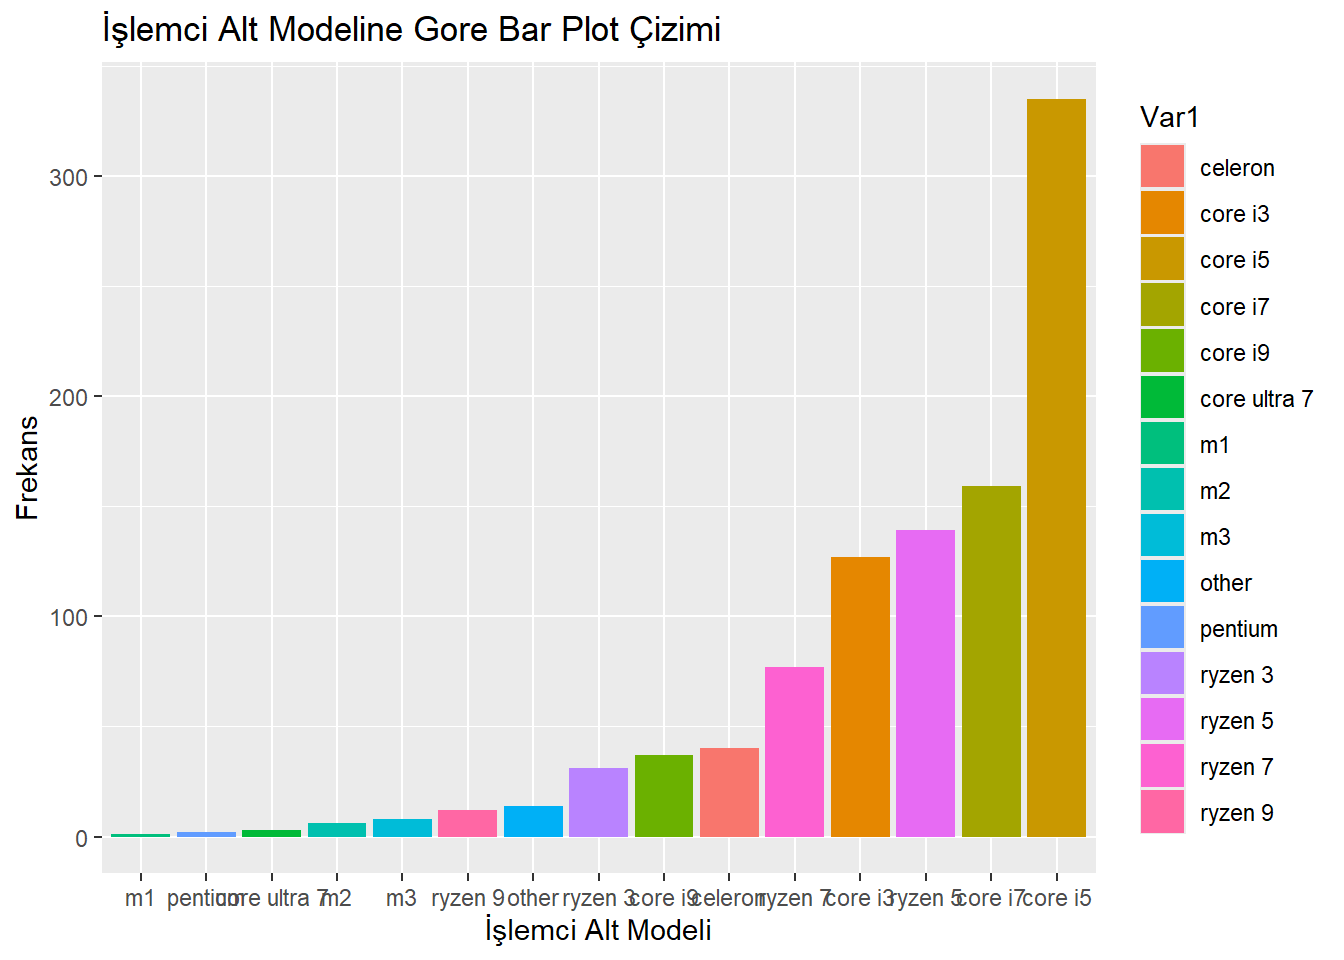
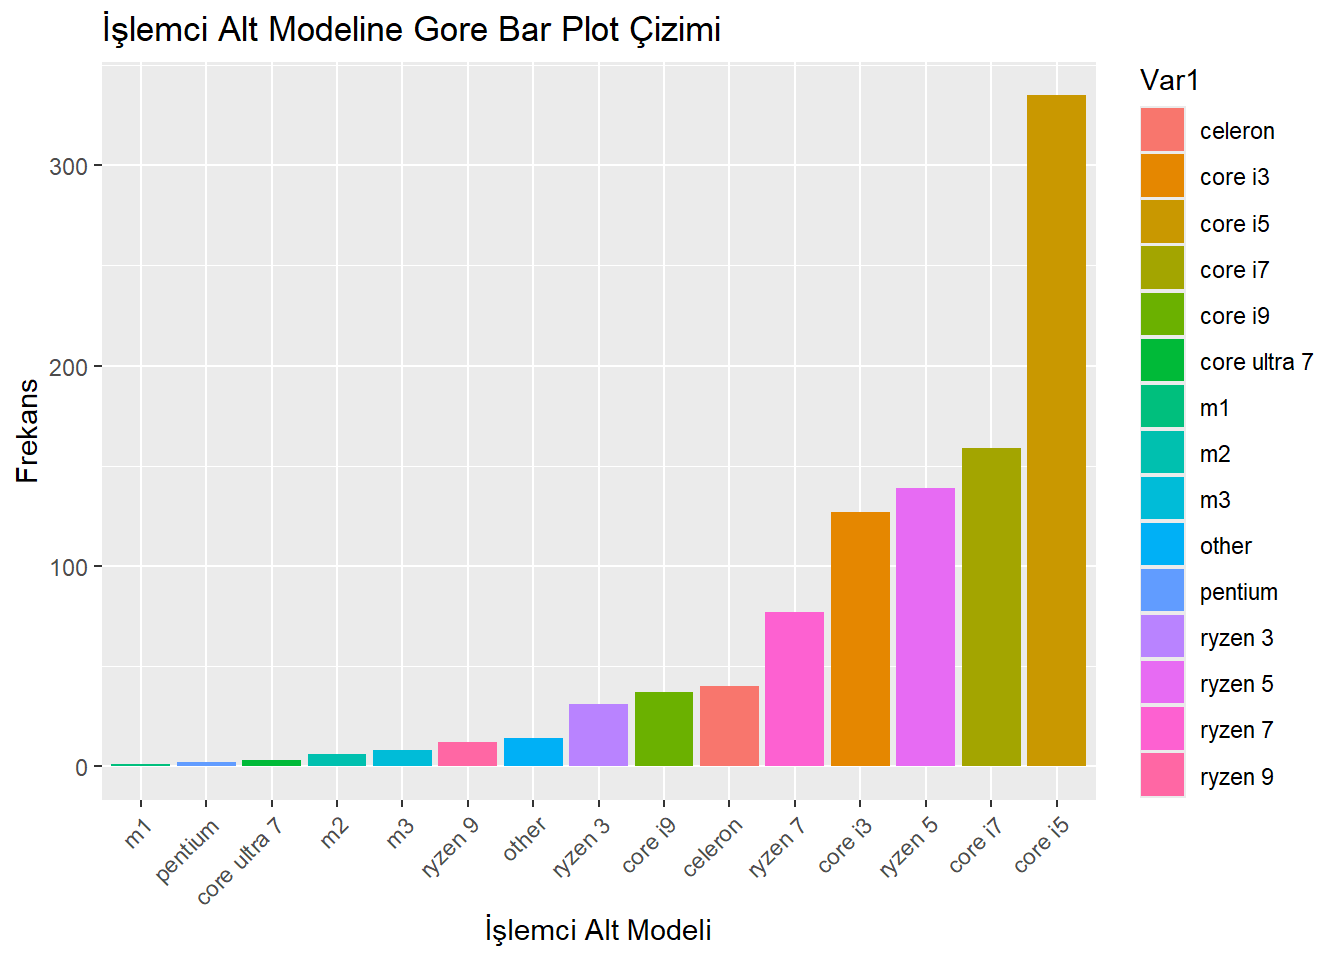
calisma_bora

diff --git a/docs/proje.html b/docs/proje.html
@@ -9,7 +9,7 @@
 <meta name="author" content="R_we_cool">
 <meta name="dcterms.date" content="2025-01-01">
 
-<title>MUY660-project – R We Cool Takımı Analitik Labı</title>
+<title>MUY665 PROJE – R We Cool Takımı Analitik Labı</title>
 <style>
 code{white-space: pre-wrap;}
 span.smallcaps{font-variant: small-caps;}
@@ -199,7 +199,7 @@ pre > code.sourceCode > span > a:first-child::before { text-decoration: underlin
 
 <header id="title-block-header" class="quarto-title-block default">
 <div class="quarto-title">
-<h1 class="title">MUY660-project</h1>
+<h1 class="title">MUY665 PROJE</h1>
 </div>
 
 
@@ -230,6 +230,95 @@ pre > code.sourceCode > span > a:first-child::before { text-decoration: underlin
 
 <section id="genel-bakış-ve-kapsamı" class="level2" data-number="1">
 <h2 data-number="1" class="anchored" data-anchor-id="genel-bakış-ve-kapsamı"><span class="header-section-number">1</span> Genel Bakış ve Kapsamı</h2>
+<p><strong>Veri Hakkında Genel Bilgiler</strong><br>
+Analiz için kullanılan <code>laptops.csv</code> veri seti, pazarda satılan farklı laptop modellerine ait hem teknik donanım özelliklerini hem de son kullanıcı değerlendirme puanlarını içerir. Aşağıda veri setine dair daha ayrıntılı bilgiler yer almaktadır:</p>
+<ul>
+<li><p><strong>Kaynak &amp; Toplanma:</strong><br>
+Veriler, büyük bir teknoloji inceleme platformundan derlenmiş; kullanıcıların anonim olarak bıraktığı puanlar (1–100 arası) ile üretici tarafından sağlanan teknik özellikler birleştirilmiştir.</p>
+<p><strong>Gözlem Sayısı &amp; Kapsam:</strong><br>
+Toplamda <strong>~2.500</strong> farklı model kaydı bulunmaktadır. Her kayıt, tek bir modelin bir konfigürasyonuna (örneğin “Dell XPS 13, 16GB RAM, i7, NVIDIA MX250”) karşılık gelir.</p>
+<p><strong>Veri Kalitesi ve Ön İşleme Gereksinimleri:</strong></p>
+<ul>
+<li><strong>Dönüştürmeler:</strong> Fiyatlar ilk önce Hindistan Rupisi (INR) olarak toplanmış; güncel döviz kuru (<code>1 USD ≈ 83 INR</code>) ile <strong>USD</strong> cinsine çevrildi. Kategorik değişkenler (<code>brand</code>, <code>processor_tier</code> vb.) faktöre dönüştürüldü.</li>
+</ul>
+<p><strong>Anahtar Değişkenler ve Anlamları:</strong></p>
+<table class="caption-top table">
+<colgroup>
+<col style="width: 33%">
+<col style="width: 33%">
+<col style="width: 33%">
+</colgroup>
+<thead>
+<tr class="header">
+<th>Değişken</th>
+<th>Tür</th>
+<th>Açıklama</th>
+</tr>
+</thead>
+<tbody>
+<tr class="odd">
+<td><code>brand</code></td>
+<td>Faktör</td>
+<td>Laptop markası (Apple, Dell, HP, Lenovo, Asus, vb.)</td>
+</tr>
+<tr class="even">
+<td><code>processor_tier</code></td>
+<td>Faktör</td>
+<td>İşlemci seviyesi (Core i3 / i5 / i7 / Ryzen 3 / 5 / 7 vb.)</td>
+</tr>
+<tr class="odd">
+<td><code>gpu_brand</code></td>
+<td>Faktör</td>
+<td>Ekran kartı markası (NVIDIA, AMD, Intel Entegre vb.)</td>
+</tr>
+<tr class="even">
+<td><code>ram_memory</code></td>
+<td>Faktör</td>
+<td>RAM kapasitesi (4, 8, 16, 32 GB vb.)</td>
+</tr>
+<tr class="odd">
+<td><code>Price</code></td>
+<td>Numerik</td>
+<td>Fiyat (USD)</td>
+</tr>
+<tr class="even">
+<td><code>Rating</code></td>
+<td>Numerik</td>
+<td>Kullanıcı memnuniyet puanı (1–100)</td>
+</tr>
+<tr class="odd">
+<td><code>primary_storage_type</code></td>
+<td>Faktör</td>
+<td>Birincil depolama türü (SSD vs.&nbsp;HDD)</td>
+</tr>
+<tr class="even">
+<td><code>primary_storage_capacity</code></td>
+<td>Numerik</td>
+<td>Birincil depolama kapasitesi (GB)</td>
+</tr>
+<tr class="odd">
+<td><code>display_size</code></td>
+<td>Numerik</td>
+<td>Ekran boyutu (inç)</td>
+</tr>
+<tr class="even">
+<td><code>num_cores</code></td>
+<td>Faktör</td>
+<td>İşlemci çekirdek sayısı</td>
+</tr>
+<tr class="odd">
+<td><code>is_touch_screen</code></td>
+<td>Faktör</td>
+<td>Dokunmatik ekran (Evet / Hayır)</td>
+</tr>
+</tbody>
+</table>
+<p><strong>Kullanım Alanı &amp; Sınırlamalar:</strong></p>
+<ul>
+<li>Bu veri, <strong>pazar segmentasyonu</strong>, <strong>fiyat performans analizi</strong> ve <strong>ürün geliştirme</strong> fizibilite çalışmaları için uygundur.</li>
+</ul></li>
+</ul>
+<p>Bu detaylı “Genel Bakış” ve “Veri Hakkında” bölümleri, hem okuyucuya projenin amacını ve kapsamını net olarak gösterir, hem de kullanılan verinin kalitesi, kaynakları ve dönüşüm adımları hakkında şeffaf bilgi sunar.</p>
 </section>
 <section id="veri-hakkında-genel-bilgiler" class="level2" data-number="2">
 <h2 data-number="2" class="anchored" data-anchor-id="veri-hakkında-genel-bilgiler"><span class="header-section-number">2</span> Veri Hakkında Genel Bilgiler</h2>
@@ -303,8 +392,8 @@ Attaching package: 'kableExtra'</code></pre>
 <span id="cb16-11"><a href="#cb16-11" aria-hidden="true" tabindex="-1"></a>  <span class="at">class =</span> <span class="st">'stripe hover cell-border'</span>  <span class="co"># Daha sıkışık bir görünüm için</span></span>
 <span id="cb16-12"><a href="#cb16-12" aria-hidden="true" tabindex="-1"></a>)</span></code><button title="Copy to Clipboard" class="code-copy-button"><i class="bi"></i></button></pre></div>
 <div class="cell-output-display">
-<div class="datatables html-widget html-fill-item" id="htmlwidget-a20a8dac1aa59238ab06" style="width:100%;height:auto;"></div>
-<script type="application/json" data-for="htmlwidget-a20a8dac1aa59238ab06">{"x":{"filter":"none","vertical":false,"caption":"<caption>Veri Setinin İlk 10 Satırı<\/caption>","data":[["1","2","3","4","5","6","7","8","9","10"],[1,2,3,4,5,6,7,8,9,10],["tecno","tecno","hp","acer","lenovo","apple","infinix","asus","hp","infinix"],["Tecno Megabook T1 Laptop (11th Gen Core i3/ 8GB/ 512GB SSD/ Win11 Home)","Tecno Megabook T1 Laptop (11th Gen Core i7/ 16GB/ 1TB SSD/ Win11 Home)","HP Victus 15-fb0157AX Gaming Laptop (AMD Ryzen 5 5600H/ 8GB/ 512GB SSD/ Win11/ 4GB Graph)","Acer Extensa EX214-53 Laptop (12th Gen Core i5/ 8GB/ 512GB SSD/ Win11 Home)","Lenovo V15 82KDA01BIH Laptop (AMD Ryzen 3 5300U/ 8GB/ 512GB SSD/ Win11 Home)","Apple MacBook Air 2020 MGND3HN Laptop (Apple M1/ 8GB/ 256GB SSD/ MacOS)","Infinix INBook Y2 Plus Laptop (11th Gen Core i5/ 16GB/ 512GB SSD/ Win 11 Home)","Asus TUF Gaming F15 FX506HF-HN024W Gaming Laptop (11th Gen Core i5/ 8GB/ 512GB SSD/ Win11/ 4GB Graph)","HP 15s-fq5007TU Laptop (12th Gen Core i3/ 8GB/ 512GB SSD/ Win11 Home)","Infinix Zerobook 2023 Laptop (13th Gen Core i9/ 32GB/ 1TB SSD/ Win 11 Home)"],[289.0361445783133,433.6144578313253,615.6626506024096,481.8072289156627,344.3373493975903,855.3012048192771,421.5662650602409,602.289156626506,445.6626506024097,722.7710843373494],[63,67,73,62,62,45,56,70,60,71],["intel","intel","amd","intel","amd","apple","intel","intel","intel","intel"],["core i3","core i7","ryzen 5","core i5","ryzen 3","m1","core i5","core i5","core i3","core i9"],[2,4,6,12,4,8,4,6,6,14],[4,8,12,16,8,8,8,12,8,20],[8,16,8,8,8,8,16,8,8,32],["SSD","SSD","SSD","SSD","SSD","SSD","SSD","SSD","SSD","SSD"],[512,1024,512,512,512,256,512,512,512,1024],["No secondary storage","No secondary storage","No secondary storage","No secondary storage","No secondary storage","No secondary storage","No secondary storage","No secondary storage","No secondary storage","No secondary storage"],[0,0,0,0,0,0,0,0,0,0],["intel","intel","amd","intel","amd","apple","intel","nvidia","intel","intel"],["integrated","integrated","dedicated","integrated","integrated","apple","integrated","dedicated","integrated","integrated"],["False","False","False","False","False","False","False","False","False","False"],[15.6,15.6,15.6,14,15.6,13.3,15.6,15.6,15.6,15.6],[1920,1920,1920,1920,1920,2560,1920,1920,1920,1920],[1080,1080,1080,1080,1080,1600,1080,1080,1080,1080],["windows","windows","windows","windows","windows","mac","windows","windows","windows","windows"],["1","1","1","1","1","1","1","1","1","1"]],"container":"<table class=\"stripe hover cell-border\">\n  <thead>\n    <tr>\n      <th> <\/th>\n      <th>index<\/th>\n      <th>brand<\/th>\n      <th>Model<\/th>\n      <th>Price<\/th>\n      <th>Rating<\/th>\n      <th>processor_brand<\/th>\n      <th>processor_tier<\/th>\n      <th>num_cores<\/th>\n      <th>num_threads<\/th>\n      <th>ram_memory<\/th>\n      <th>primary_storage_type<\/th>\n      <th>primary_storage_capacity<\/th>\n      <th>secondary_storage_type<\/th>\n      <th>secondary_storage_capacity<\/th>\n      <th>gpu_brand<\/th>\n      <th>gpu_type<\/th>\n      <th>is_touch_screen<\/th>\n      <th>display_size<\/th>\n      <th>resolution_width<\/th>\n      <th>resolution_height<\/th>\n      <th>OS<\/th>\n      <th>year_of_warranty<\/th>\n    <\/tr>\n  <\/thead>\n<\/table>","options":{"pageLength":5,"scrollX":true,"autoWidth":false,"columnDefs":[{"className":"dt-right","targets":[1,4,5,8,9,10,12,14,18,19,20]},{"orderable":false,"targets":0},{"name":" ","targets":0},{"name":"index","targets":1},{"name":"brand","targets":2},{"name":"Model","targets":3},{"name":"Price","targets":4},{"name":"Rating","targets":5},{"name":"processor_brand","targets":6},{"name":"processor_tier","targets":7},{"name":"num_cores","targets":8},{"name":"num_threads","targets":9},{"name":"ram_memory","targets":10},{"name":"primary_storage_type","targets":11},{"name":"primary_storage_capacity","targets":12},{"name":"secondary_storage_type","targets":13},{"name":"secondary_storage_capacity","targets":14},{"name":"gpu_brand","targets":15},{"name":"gpu_type","targets":16},{"name":"is_touch_screen","targets":17},{"name":"display_size","targets":18},{"name":"resolution_width","targets":19},{"name":"resolution_height","targets":20},{"name":"OS","targets":21},{"name":"year_of_warranty","targets":22}],"order":[],"orderClasses":false,"lengthMenu":[5,10,25,50,100]}},"evals":[],"jsHooks":[]}</script>
+<div class="datatables html-widget html-fill-item" id="htmlwidget-fa5126a0b2cb2144a8a2" style="width:100%;height:auto;"></div>
+<script type="application/json" data-for="htmlwidget-fa5126a0b2cb2144a8a2">{"x":{"filter":"none","vertical":false,"caption":"<caption>Veri Setinin İlk 10 Satırı<\/caption>","data":[["1","2","3","4","5","6","7","8","9","10"],[1,2,3,4,5,6,7,8,9,10],["tecno","tecno","hp","acer","lenovo","apple","infinix","asus","hp","infinix"],["Tecno Megabook T1 Laptop (11th Gen Core i3/ 8GB/ 512GB SSD/ Win11 Home)","Tecno Megabook T1 Laptop (11th Gen Core i7/ 16GB/ 1TB SSD/ Win11 Home)","HP Victus 15-fb0157AX Gaming Laptop (AMD Ryzen 5 5600H/ 8GB/ 512GB SSD/ Win11/ 4GB Graph)","Acer Extensa EX214-53 Laptop (12th Gen Core i5/ 8GB/ 512GB SSD/ Win11 Home)","Lenovo V15 82KDA01BIH Laptop (AMD Ryzen 3 5300U/ 8GB/ 512GB SSD/ Win11 Home)","Apple MacBook Air 2020 MGND3HN Laptop (Apple M1/ 8GB/ 256GB SSD/ MacOS)","Infinix INBook Y2 Plus Laptop (11th Gen Core i5/ 16GB/ 512GB SSD/ Win 11 Home)","Asus TUF Gaming F15 FX506HF-HN024W Gaming Laptop (11th Gen Core i5/ 8GB/ 512GB SSD/ Win11/ 4GB Graph)","HP 15s-fq5007TU Laptop (12th Gen Core i3/ 8GB/ 512GB SSD/ Win11 Home)","Infinix Zerobook 2023 Laptop (13th Gen Core i9/ 32GB/ 1TB SSD/ Win 11 Home)"],[289.0361445783133,433.6144578313253,615.6626506024096,481.8072289156627,344.3373493975903,855.3012048192771,421.5662650602409,602.289156626506,445.6626506024097,722.7710843373494],[63,67,73,62,62,45,56,70,60,71],["intel","intel","amd","intel","amd","apple","intel","intel","intel","intel"],["core i3","core i7","ryzen 5","core i5","ryzen 3","m1","core i5","core i5","core i3","core i9"],[2,4,6,12,4,8,4,6,6,14],[4,8,12,16,8,8,8,12,8,20],[8,16,8,8,8,8,16,8,8,32],["SSD","SSD","SSD","SSD","SSD","SSD","SSD","SSD","SSD","SSD"],[512,1024,512,512,512,256,512,512,512,1024],["No secondary storage","No secondary storage","No secondary storage","No secondary storage","No secondary storage","No secondary storage","No secondary storage","No secondary storage","No secondary storage","No secondary storage"],[0,0,0,0,0,0,0,0,0,0],["intel","intel","amd","intel","amd","apple","intel","nvidia","intel","intel"],["integrated","integrated","dedicated","integrated","integrated","apple","integrated","dedicated","integrated","integrated"],["False","False","False","False","False","False","False","False","False","False"],[15.6,15.6,15.6,14,15.6,13.3,15.6,15.6,15.6,15.6],[1920,1920,1920,1920,1920,2560,1920,1920,1920,1920],[1080,1080,1080,1080,1080,1600,1080,1080,1080,1080],["windows","windows","windows","windows","windows","mac","windows","windows","windows","windows"],["1","1","1","1","1","1","1","1","1","1"]],"container":"<table class=\"stripe hover cell-border\">\n  <thead>\n    <tr>\n      <th> <\/th>\n      <th>index<\/th>\n      <th>brand<\/th>\n      <th>Model<\/th>\n      <th>Price<\/th>\n      <th>Rating<\/th>\n      <th>processor_brand<\/th>\n      <th>processor_tier<\/th>\n      <th>num_cores<\/th>\n      <th>num_threads<\/th>\n      <th>ram_memory<\/th>\n      <th>primary_storage_type<\/th>\n      <th>primary_storage_capacity<\/th>\n      <th>secondary_storage_type<\/th>\n      <th>secondary_storage_capacity<\/th>\n      <th>gpu_brand<\/th>\n      <th>gpu_type<\/th>\n      <th>is_touch_screen<\/th>\n      <th>display_size<\/th>\n      <th>resolution_width<\/th>\n      <th>resolution_height<\/th>\n      <th>OS<\/th>\n      <th>year_of_warranty<\/th>\n    <\/tr>\n  <\/thead>\n<\/table>","options":{"pageLength":5,"scrollX":true,"autoWidth":false,"columnDefs":[{"className":"dt-right","targets":[1,4,5,8,9,10,12,14,18,19,20]},{"orderable":false,"targets":0},{"name":" ","targets":0},{"name":"index","targets":1},{"name":"brand","targets":2},{"name":"Model","targets":3},{"name":"Price","targets":4},{"name":"Rating","targets":5},{"name":"processor_brand","targets":6},{"name":"processor_tier","targets":7},{"name":"num_cores","targets":8},{"name":"num_threads","targets":9},{"name":"ram_memory","targets":10},{"name":"primary_storage_type","targets":11},{"name":"primary_storage_capacity","targets":12},{"name":"secondary_storage_type","targets":13},{"name":"secondary_storage_capacity","targets":14},{"name":"gpu_brand","targets":15},{"name":"gpu_type","targets":16},{"name":"is_touch_screen","targets":17},{"name":"display_size","targets":18},{"name":"resolution_width","targets":19},{"name":"resolution_height","targets":20},{"name":"OS","targets":21},{"name":"year_of_warranty","targets":22}],"order":[],"orderClasses":false,"lengthMenu":[5,10,25,50,100]}},"evals":[],"jsHooks":[]}</script>
 </div>
 </div>
 <div class="cell">
@@ -449,11 +538,13 @@ Attaching package: 'kableExtra'</code></pre>
 </div>
 <p>İşlemci seviyeleri arasında dikkat çekici sıklık farkları var mı?</p>
 <div class="cell">
-<div class="sourceCode cell-code" id="cb28"><pre class="sourceCode r code-with-copy"><code class="sourceCode r"><span id="cb28-1"><a href="#cb28-1" aria-hidden="true" tabindex="-1"></a><span class="fu">library</span>(ggplot2)</span>
-<span id="cb28-2"><a href="#cb28-2" aria-hidden="true" tabindex="-1"></a>f<span class="ot">=</span><span class="fu">table</span>(data_new<span class="sc">$</span>processor_tier)</span>
-<span id="cb28-3"><a href="#cb28-3" aria-hidden="true" tabindex="-1"></a>f_data<span class="ot">=</span><span class="fu">data.frame</span>(f) </span>
-<span id="cb28-4"><a href="#cb28-4" aria-hidden="true" tabindex="-1"></a><span class="fu">ggplot</span>(f_data,<span class="fu">aes</span>(<span class="at">x=</span><span class="fu">reorder</span>(Var1,Freq),<span class="at">y=</span>Freq,<span class="at">fill=</span>Var1))<span class="sc">+</span><span class="fu">geom_bar</span>(<span class="at">stat=</span><span class="st">"identity"</span>)<span class="sc">+</span></span>
-<span id="cb28-5"><a href="#cb28-5" aria-hidden="true" tabindex="-1"></a>  <span class="fu">labs</span>(<span class="at">title=</span><span class="st">"İşlemci Alt Modeline Gore Bar Plot Çizimi"</span>,<span class="at">y=</span><span class="st">"Frekans"</span>,<span class="at">x=</span><span class="st">"İşlemci Alt Modeli"</span>)</span></code><button title="Copy to Clipboard" class="code-copy-button"><i class="bi"></i></button></pre></div>
+<div class="sourceCode cell-code" id="cb28"><pre class="sourceCode r code-with-copy"><code class="sourceCode r"><span id="cb28-1"><a href="#cb28-1" aria-hidden="true" tabindex="-1"></a>f <span class="ot">=</span> <span class="fu">table</span>(data_new<span class="sc">$</span>processor_tier)</span>
+<span id="cb28-2"><a href="#cb28-2" aria-hidden="true" tabindex="-1"></a>f_data <span class="ot">=</span> <span class="fu">data.frame</span>(f)</span>
+<span id="cb28-3"><a href="#cb28-3" aria-hidden="true" tabindex="-1"></a></span>
+<span id="cb28-4"><a href="#cb28-4" aria-hidden="true" tabindex="-1"></a><span class="fu">ggplot</span>(f_data, <span class="fu">aes</span>(<span class="at">x =</span> <span class="fu">reorder</span>(Var1, Freq), <span class="at">y =</span> Freq, <span class="at">fill =</span> Var1)) <span class="sc">+</span> </span>
+<span id="cb28-5"><a href="#cb28-5" aria-hidden="true" tabindex="-1"></a>  <span class="fu">geom_bar</span>(<span class="at">stat =</span> <span class="st">"identity"</span>) <span class="sc">+</span></span>
+<span id="cb28-6"><a href="#cb28-6" aria-hidden="true" tabindex="-1"></a>  <span class="fu">labs</span>(<span class="at">title =</span> <span class="st">"İşlemci Alt Modeline Gore Bar Plot Çizimi"</span>, <span class="at">y =</span> <span class="st">"Frekans"</span>, <span class="at">x =</span> <span class="st">"İşlemci Alt Modeli"</span>) <span class="sc">+</span></span>
+<span id="cb28-7"><a href="#cb28-7" aria-hidden="true" tabindex="-1"></a>  <span class="fu">theme</span>(<span class="at">axis.text.x =</span> <span class="fu">element_text</span>(<span class="at">angle =</span> <span class="dv">45</span>, <span class="at">hjust =</span> <span class="dv">1</span>, <span class="at">vjust =</span> <span class="dv">1</span>))  <span class="co"># X ekseni etiketlerini döndür</span></span></code><button title="Copy to Clipboard" class="code-copy-button"><i class="bi"></i></button></pre></div>
 <div class="cell-output-display">
 <div>
 <figure class="figure">
